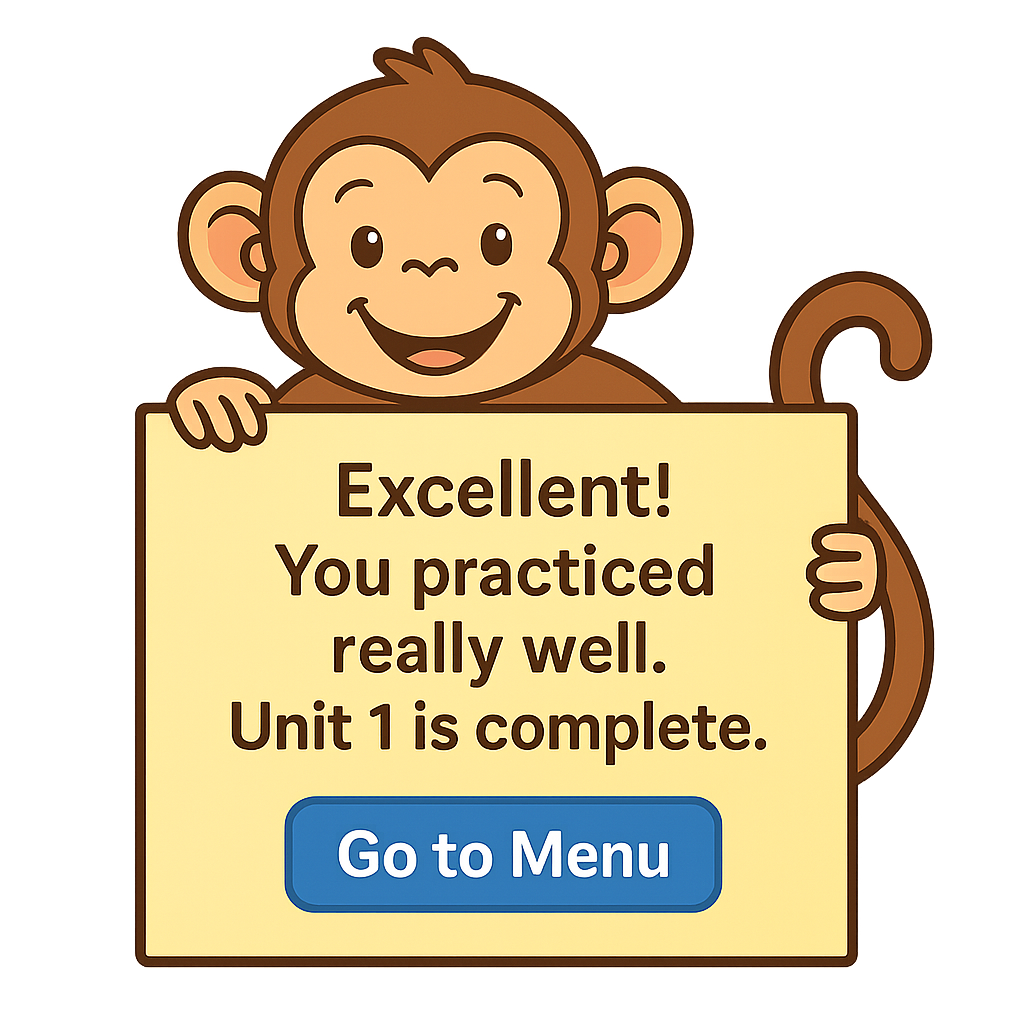
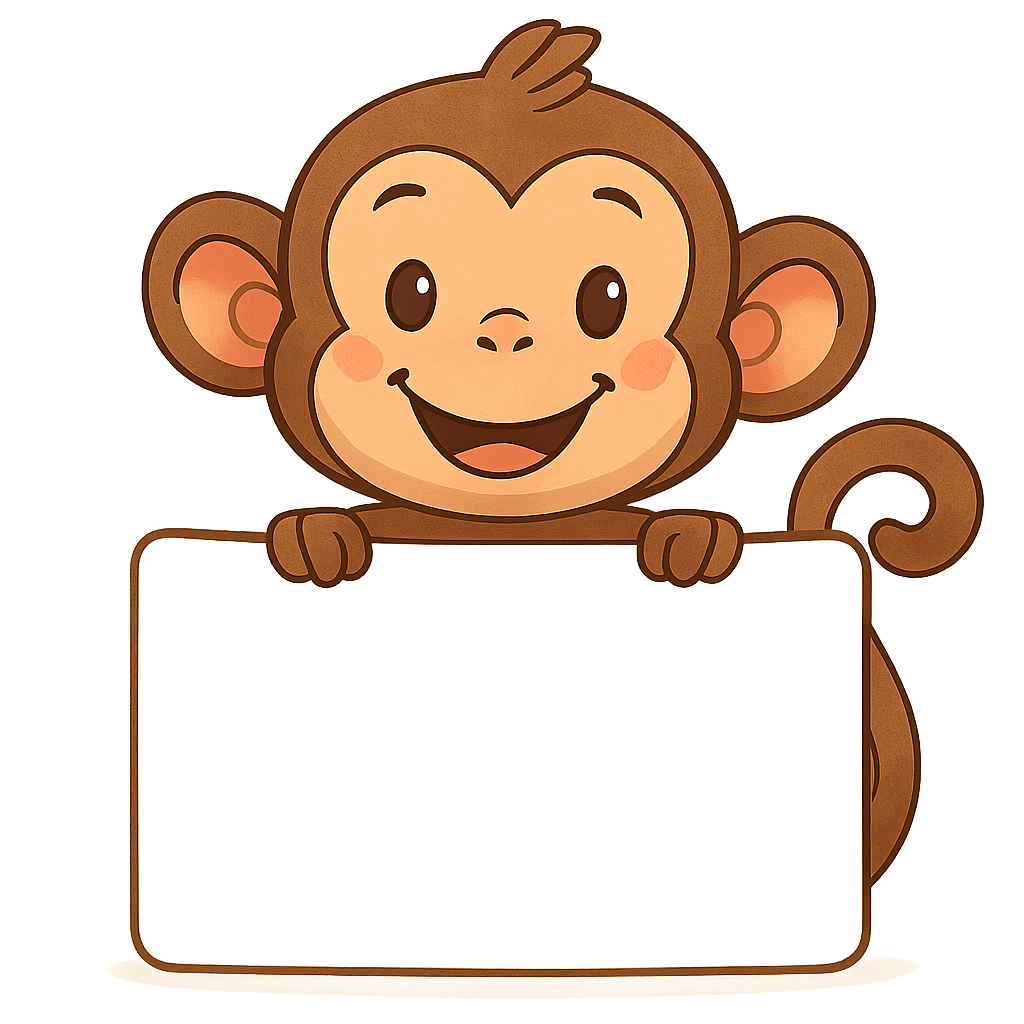
outro updated

diff --git a/an-quiz/an-quiz.css b/an-quiz/an-quiz.css
@@ -399,19 +399,32 @@
 
 .outro-card {
   width: min(92vw, 540px);
-  min-height: 300px;
-  /* swap in the card art */
+  min-height: 420px;  /* match monkey card proportions */
   background: url('Images/outro-card.png') center/contain no-repeat;
   background-color: transparent;
 
-  /* content layout */
-  padding: 120px 28px 32px; /* top padding pushes text into the blank area */
+  /* Position text into the blank area of the card */
+  padding: 250px 4px 20px; /* top/right/left/bottom - adjust these */
+  
+  display: flex;
+  flex-direction: column;
+  align-items: center;
+  justify-content: center;
   text-align: center;
-  border-radius: 0;          /* the image has its own rounded edges */
-  box-shadow: none;          /* image includes shadow */
+
+  border-radius: 0;  /* image already has edges */
+  box-shadow: none;  /* image includes its own */
 }
-.outro-title { margin-bottom: 6px; }
-.outro-sub   { margin-bottom: 16px; }
+
+.outro-textbox {
+  background: #ffeb99; /* colour only text area */
+  border-radius: 14px;
+  padding: 14px 16px;
+  width: 100%;
+}
+
+.outro-title { margin-bottom: 6px; font-size: 30px; }
+.outro-sub   { margin-bottom: 16px; font-size: 22px; }
 
 
 .outro-stars {
@@ -423,6 +436,7 @@
 #outroMenuBtn {
   display: inline-flex; align-items: center; justify-content: center;
   min-width: 200px;
+
 }
 
 /* Respect reduced motion: no confetti blast on outro */
@@ -439,7 +453,7 @@
   color: #fff;
   filter: drop-shadow(0 0 6px #ffd84a);
 
-  background: linear-gradient(#ffcd4d, #f5a208); /* warm gold gradient */
+  background: linear-gradient(#ff4ca4, #a154ff); /* warm gold gradient */
   padding: 14px 26px;
   border-radius: 999px;
 

diff --git a/an-quiz/an-quiz.html b/an-quiz/an-quiz.html
@@ -69,18 +69,12 @@
     <!-- Outro overlay -->
 <section id="practiceOutro" class="outro-screen hidden" aria-label="Practice complete" role="dialog" aria-modal="true">
   <div class="outro-card">
-    <!-- <div class="outro-title">Excellent! 🎉</div> -->
-    <!-- <div class="outro-sub">You practised really well. Unit 1 is complete.</div> -->
-
-    <!-- Big celebratory star row (optional, reuses your same star asset) -->
-    <!-- <div class="outro-stars">
-      <img src="Images/star.png" alt="" aria-hidden="true">
-      <img src="Images/star.png" alt="" aria-hidden="true">
-      <img src="Images/star.png" alt="" aria-hidden="true">
+    <div class="outro-textbox"> 
+      <div class="outro-title">Excellent! 🎉</div> 
+      <div class="outro-sub">You practised really well.</div>
+      <a class="btn home" id="outroMenuBtn" href="../index.html">🏠 Go to Menu</a>
     </div>
-
-    <a class="btn home" id="outroMenuBtn" href="../index.html">🏠 Go to Menu</a>
-  </div> -->
+  </div>
 </section>
 
   </main>
